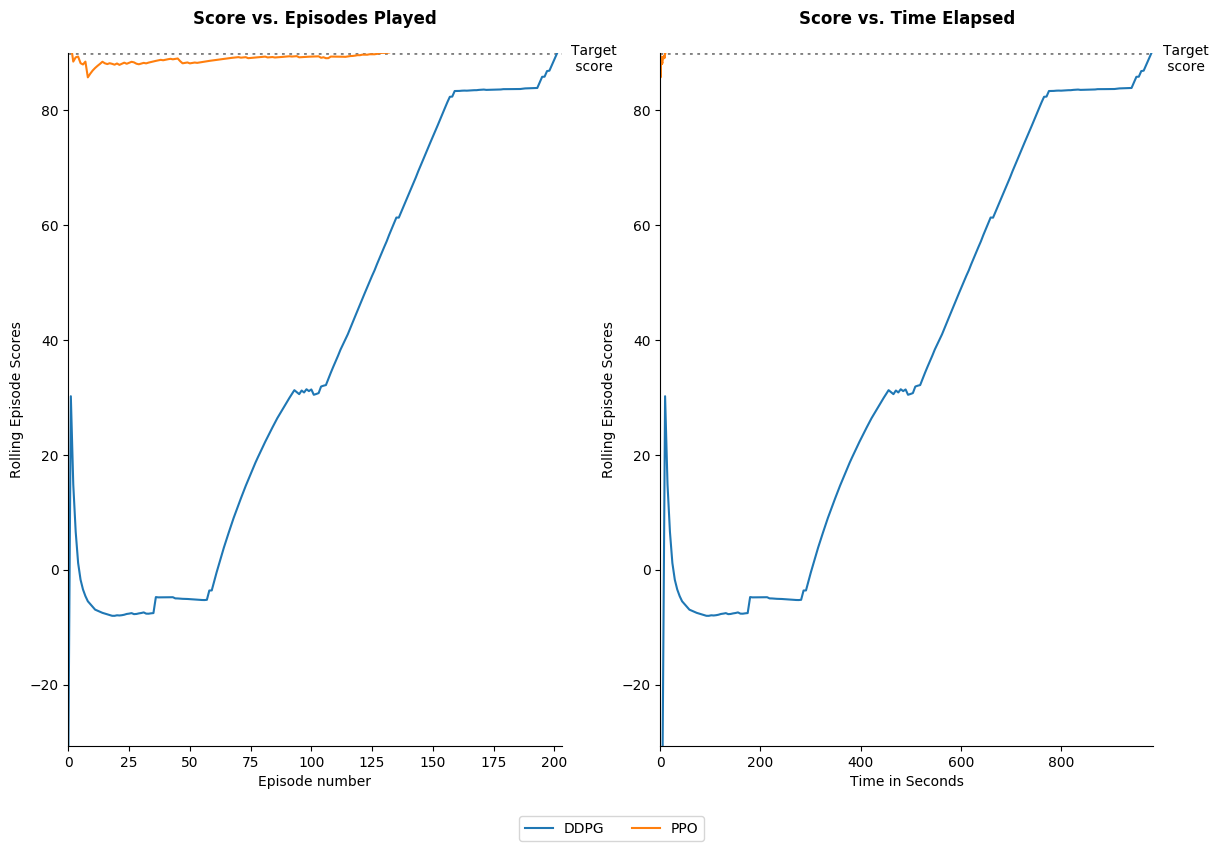
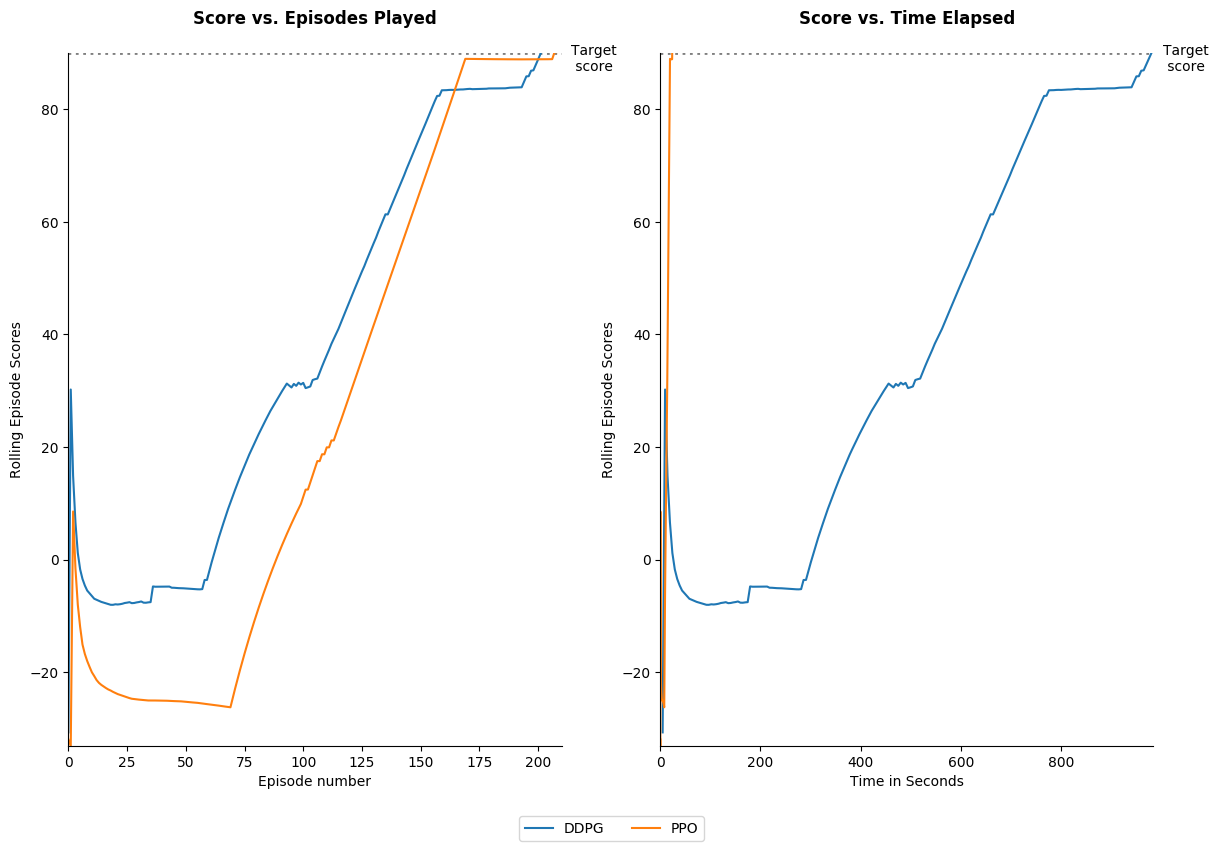
updated mountain car graph

diff --git a/Results/Mountain_Car_Continuous/Results.py b/Results/Mountain_Car_Continuous/Results.py
@@ -20,7 +20,7 @@ config.hyperparameters = {
             "nn_layers": 2,
             "nn_start_units": 20,
             "nn_unit_decay": 1.0,
-            "final_layer_activation": None,
+            "final_layer_activation": "TANH",
             "learning_iterations_per_round": 10,
             "discount_rate": 0.99,
             "batch_norm": False,
